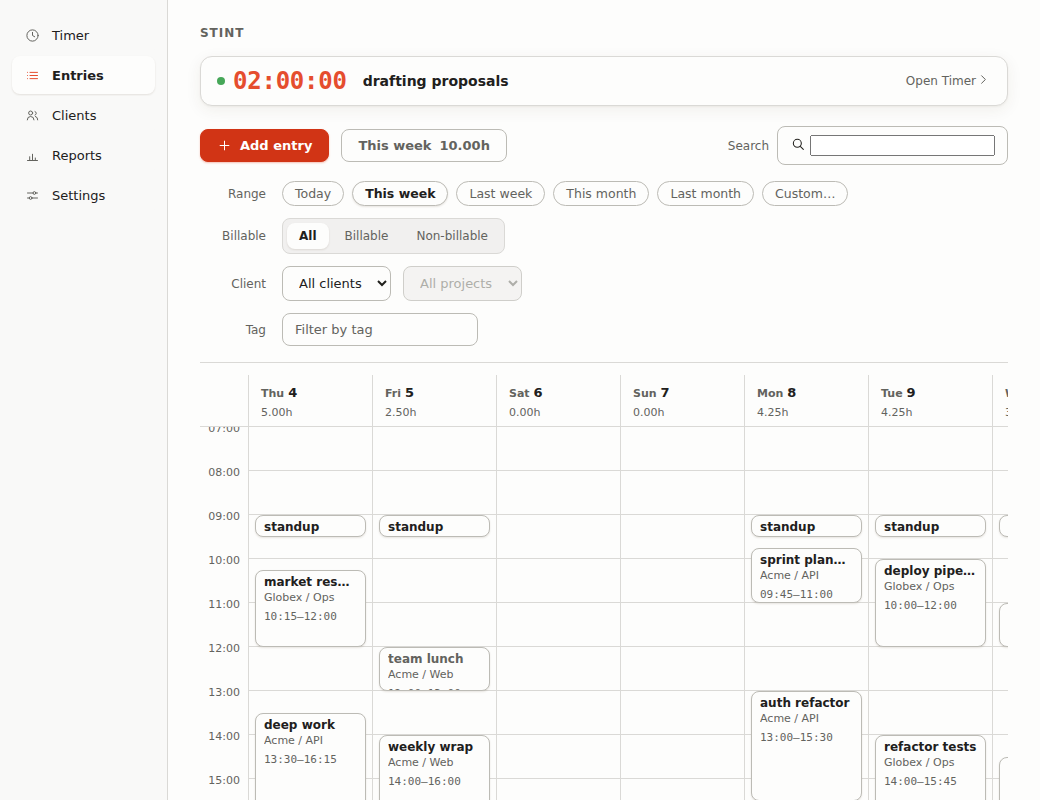
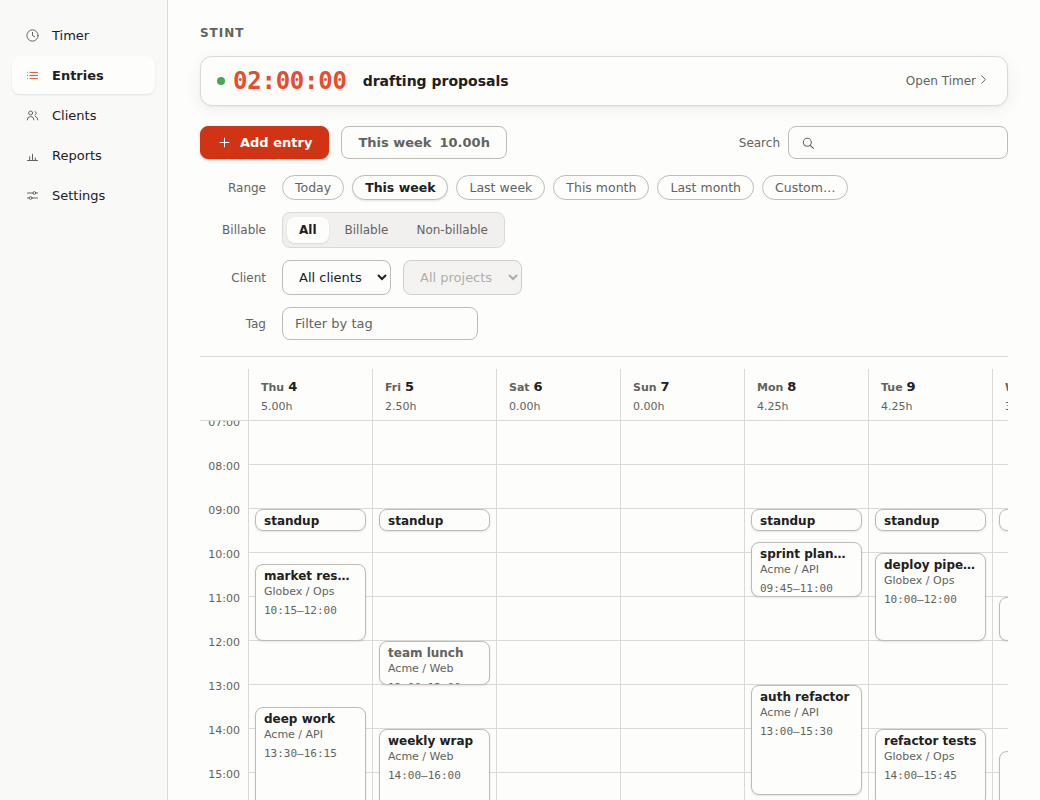
Put the search field's chrome on the input, not the span around it (#149)
The toolbar search box painted two nested fields. The border, radius and
padding sat on the `.search` <span> wrapping the input, and nothing reset the
input itself — so Chromium's UA chrome (a 2px inset border, square corners, an
off-grid `padding: 1px 2px`) rendered a second, smaller field inside the
designed one, and design.html D13's focus idiom landed on that inner box: a
square accent rectangle floating inside a rounded grey one.

The chrome moves onto the input, which is the element that actually takes
focus. The wrapper keeps only the magnifier, absolutely positioned and inert
to the pointer; the input reserves its lane with padding-left. `#search` now
resolves to one 1px solid --rule-strong border, an 8px radius, on-grid padding
and a 220x33 box — which also takes it off TARGET_SIZE's A03 spacing-exception
list, where its 185x21 box had been sitting.

The new JUDGE scene FIELD_CHROME carries D13's other half over the driven DOM:
every visible field in all five views resolves to one solid --rule-strong
border of one width (the same width every other field draws), an --r1 radius
and on-grid computed padding, and a real Tab onto #search lands the accent
border and 3px ring on the field with its wrapper painting nothing. The static
guard could not see this — it scores the 4px grid over the authored values in
styles.css, and every authored value was on-grid; these came from the UA
stylesheet.

context/mockups/main.html takes the same structure (PRD §18); it renders the
[…]

diff --git a/packages/gui/renderer/styles.css b/packages/gui/renderer/styles.css
@@ -487,8 +487,16 @@ s {
 
 /* The toolbar search box — a restrained warm field, pushed to the right. Never the accent.
    design.html D13 (issue 136): the label wrapper carries the visible name and the trailing
-   margin that pushes the pair right; the inner .search span stays the field chrome it always
-   was, so the box itself is unchanged. */
+   margin that pushes the pair right.
+
+   D13 again (issue 149): the FIELD CHROME lives on the input, not on a wrapper around it.
+   The .search span used to carry the border, radius and padding while nothing reset the
+   real <input>, so Chromium's UA chrome — a 2px inset border, square corners, an off-grid
+   1px 2px padding — painted a second field inside the designed one, and the D13 focus
+   idiom (accent border + 3px ring) landed on that inner 185x21 box rather than on the
+   rounded outline the user sees. Styling the element that actually takes focus overrides
+   the UA declarations in the one place they can be overridden, and gives the ring the box
+   it belongs to. The wrapper is now only a positioning host for the magnifier. */
 .search-field {
   display: inline-flex;
   align-items: center;
@@ -498,14 +506,31 @@ s {
   color: var(--muted);
 }
 .search {
+  position: relative;
+  display: inline-flex;
+  align-items: center;
+}
+/* The magnifier is a mark INSIDE the field, so it is taken out of flow (it must not push
+   the input's text box around) and made inert to the pointer — a click anywhere over the
+   box lands on the input, which is the whole affordance. The input reserves its lane with
+   padding-left instead. */
+.search .ic {
+  position: absolute;
+  left: 12px;
+  pointer-events: none;
+}
+/* Class-scoped, NOT `#search`: an id selector would outrank the one `input:focus-visible`
+   rule below and silently take D13's focus border back off the field (the cascade trap the
+   focus doctrine header records). At this weight the later focus rule wins, as it must. */
+.search input {
   font-family: var(--sans);
   font-size: 12.5px;
   color: var(--ink);
   background: var(--paper);
   border: 1px solid var(--rule-strong);
   border-radius: var(--r1);
-  padding: 8px 12px;
-  min-width: 200px;
+  padding: 8px 12px 8px 36px;
+  min-width: 220px;
 }
 
 /* §12 R9: the Entries-view control bar — a quiet labelled grid of the range presets, the

diff --git a/context/mockups/main.html b/context/mockups/main.html
@@ -105,11 +105,14 @@
   .toolbar{display:flex;align-items:center;gap:12px;flex-wrap:wrap;margin-bottom:4px}
   .toolbar select.field{min-width:0;padding:8px 12px;font-size:12px;color:var(--muted)}
   /* design.html D13: the search box carries a VISIBLE label — the wrapper holds the name
-     and the trailing margin, the .srch box stays the field chrome (issue 136). */
+     and the trailing margin (issue 136), and the FIELD CHROME — one border, one radius, the
+     padding — lives on the input itself, so the box the user sees is the box that takes focus
+     (issue 149). The .srch span is only the positioning host for the magnifier, which is taken
+     out of flow and made inert so a click anywhere over the box reaches the input. */
   .srchf{margin-left:auto;display:flex;align-items:center;gap:8px;font-size:12px;color:var(--muted)}
-  .srch{display:flex;align-items:center;gap:8px;border:1px solid var(--rule-strong);border-radius:var(--r1);padding:0 12px;height:32px;min-width:220px;color:var(--muted);background:var(--paper)}
-  .srch input{border:0;outline:0;font:inherit;font-size:12.5px;flex:1;color:var(--ink);background:none}
-  .srch .ic{width:15px;height:15px}
+  .srch{position:relative;display:flex;align-items:center}
+  .srch input{font:inherit;font-size:12.5px;line-height:normal;color:var(--ink);background:var(--paper);border:1px solid var(--rule-strong);border-radius:var(--r1);padding:8px 12px 8px 36px;min-width:220px}
+  .srch .ic{position:absolute;left:12px;width:15px;height:15px;pointer-events:none}
   /* selection bar */
   .selbar{display:flex;align-items:center;gap:12px;padding:12px 16px;margin-bottom:4px;border-radius:var(--r1);background:var(--wash);border:1px solid var(--rule)}
   .selbar .cap{flex:1}

diff --git a/acceptance/criteria/judge-rubric.md b/acceptance/criteria/judge-rubric.md
@@ -75,7 +75,8 @@ The harness writes `acceptance/evidence/judge-report.json` and the screenshots i
 | `RECOVERY_NOTICE` | The Settings → Backups **corruption-recovery banner** (§20 R05 / §17 R12). On a launch where the database was recovered from a backup (`state.recoveryNotice` non-null), routing to Settings renders a **one-shot banner** that names **both** the backup it recovered from (`recoveredFrom`) **and** the quarantined `.corrupted` file it set aside (`quarantinedTo`) — so the user sees exactly what happened, not a silent recovery. The Backups group + a reachable **Restore…** still render alongside it. The banner uses the monochrome warn `--flag` notice chrome (no accent). Machine-scored facts: the recovery banner renders naming both `recoveredFrom` and `quarantinedTo`, and a Restore… stays reachable on the same surface. | §20 R05, §17 R12, §15 | `main-recovery.png` |
 | `PARITY_REACH` | **The rendered window surfaces an affordance for every capability (§17 R8).** Nothing `tt` can do is unreachable from the GUI: the persistent left-nav **routes to each of the five views** (Timer / Entries / Clients / Reports / Settings) and **each view exposes its actions** (the timer's Start/Stop, the Entries control bar + per-row edit/split/merge/delete, the Clients create/rename/archive, the report builder + exports, the Settings controls). The static coverage claim is asserted in `gui/test/parity.test.ts` (every IPC channel maps to a real `tt` command, **and** — bidirectionally — every distinct `tt` capability is covered by a parity-matrix row, modulo an explicit GUI-absent allow-set) and `parity-matrix.json`; the behavioural claim is asserted by `features/parity.feature` running over **both** surfaces. Machine-scored sub-fact here: the injected `window.stint` (the same preload surface production exposes) provides a **callable method for every `CHANNELS` entry** (a channel with no method is a capability the renderer cannot invoke) and the nav routes to all five views. Subjective: each view's affordances read as discoverable, not buried. | §17 R8, §12 R3 | `parity-timer.png`, `parity-entries.png`, `parity-clients.png`, `parity-reports.png`, `parity-settings.png` |
 | `FIELD_LABELS` | **The D13 floor (every field carries a VISIBLE label), machine-scored — and with it the A01 field-border exemption design.html §07 CONDITIONS on that label.** The app labelled its fields with placeholder text, so the only name disappeared the moment the user typed; on the start form's four attribute fields (`#start-desc` / `#start-client` / `#start-project` / `#start-tags`) there was no accessible name at all, and `#add-desc` / `#search` / `#rep-name` carried a placeholder plus an INVISIBLE `aria-label` — which names the control for a screen reader and for nobody else (issue 136). `#add-desc` was the sharpest case: the one unlabelled field in a form whose Client / Project / Tags siblings all carried a visible one, an inconsistency inside a single form, and the mockups (`edit-entry.html`, `reports.html`, `timer.html`) had drawn the labels all along — the app drifted from its own illustration. Driving the real renderer through **all five views** at the 940×960 window, each routed into the states that actually hold fields — the Timer **start-details disclosure** (idle-only, §12 R05), the Entries **unified add form + Custom range**, the Reports **builder + Custom range**, and **Settings** (the Clients view carries no field at rest) — every VISIBLE form control (`input` / `select` / `textarea`) is swept for **two facts**: **(a) named** — **every** control has a programmatic accessible name from something other than its `placeholder`/`title` (an `aria-label`, a `<label>`, or `aria-labelledby`), the fact the four start-* fields failed outright; and **(b) visibly named** — every **field** has a **persistent visible element** supplying that name, through one of the three idioms the app uses: a wrapping or `for`-associated **`<label>`** with visible text (the D13 idiom), **`aria-labelledby`** resolving to a visible element, or the **row-heading** idiom the control bars and settings rows use (a visible `.report-lab` before a `.report-row`, a `.set-k` inside a `.set-row`, with `aria-label` carrying the programmatic half). A **placeholder is not an idiom** — vanishing on the first keystroke is the defect — and neither is a bare `aria-label`. Fact (b) governs the population D13's rule describes — the bordered-box controls ("one border, one radius, one focus idiom"). A **checkbox is not one**: it is named by the word beside it, and the calendar's corner select box is an **icon-only affordance**, which design.html **D16/A02** govern instead — those owe an accessible name, not a visible label, so fact (a) covers them and fact (b) does not. Every row-heading-idiom control is **named in the justification** so that population stays reviewable, exactly as `TARGET_SIZE` names its spacing exceptions. Guard-the-guard: the sweep must find **≥20** visible fields, so a scene that has gone blind fails instead of passing on an empty set. Fails the moment a field is added with only a placeholder, an `aria-label` is swapped in for a visible label, or a label is deleted from a field that had one. The Settings **global-hotkey capture control** is a `[tabindex]` span rather than a form control and is covered by `HOTKEY_NO_TRAP`. | §12 R14, §12 R05, §12 R07, §12 R08 · design.html D13/A01 | `field-labels-timer.png`, `field-labels-entries.png`, `field-labels-reports.png` |
-| `TARGET_SIZE` | **The A03 floor (target size, WCAG 2.2 SC 2.5.8), machine-scored.** Sweeping every **visible interactive control** (buttons, links, form fields, tabbable elements, `[data-act]` affordances; a control nested inside another target measures with its parent) across **all five views of the running main window and the tray popover**, every target's bounding box is **≥24×24 CSS px**, or it is covered by a WCAG-sanctioned exception: the **spacing exception**, tested as SC 2.5.8 defines it — a **24px-diameter circle centred on the undersized target** intersects **no other target's bounding box and no other undersized target's circle** (the known, deliberate cases: the live-edit billable checkbox, the toolbar search field, and the settings toggle, each with a clear circle) — or the **inline exception** for links inside a line of text. Zero unsanctioned undersized targets gates the pass, and every spacing-sanctioned control is named in the report so the exception list stays reviewable. A sub-24px control landing against a neighbour (a 22px ops button beside an overlapping event's ops, say) flips the pass to false. | design.html A03 | `main-target-size.png` |
+| `FIELD_CHROME` | **The D13 field grammar ("**One** border (`rule-strong`), **one** radius (8px), **one** focus idiom: accent border + the 3px ring") and the D07 grid under its padding, machine-scored over the DRIVEN DOM.** The toolbar search box painted **two nested fields** (issue 149): the border, radius and padding sat on the `.search` `<span>` **wrapping** the input, and nothing reset the input itself — so Chromium's UA chrome (a `2px inset` border, square corners, an off-grid `padding: 1px 2px`) rendered a **second, smaller field inside the designed one**, and D13's focus idiom landed on **that inner box**: a square accent rectangle floating inside a rounded grey one. `#search`'s 1px paddings were the **only off-grid padding values in the running app**. Nothing could catch it — GOLD `design-guard.test.ts` scores the 4px grid over the **authored** values in `styles.css`, and every authored value was on-grid; these came from the **UA stylesheet**, which a static scan of the source cannot see. That is the limit of the static half rather than a bug in it, and this row is where the case belongs: the **driven-DOM** half of design.html §08's split. `FIELD_LABELS` drives the same five views over the same field population and asks how each is **named**; this row asks what each **looks like**. Two facts. **(a) The sweep** — every **visible field** (the bordered-box controls D13 describes: text inputs, selects, textareas — never the checkboxes) across **all five views**, each routed into the state that holds its fields (the Timer **start-details disclosure**, the Entries **add form + Custom range**, the Reports **builder + Custom range**, **Settings**; the Clients view carries no field at rest and is swept anyway so one added there cannot slip in unswept), resolves to **one solid `--rule-strong` border of one width on all four sides** — and the **same width as every other field in the window**, so "one border" is scored as **agreement** rather than pinned to a px literal (a restyle that thickens every field's hairline stays legal; one field that disagrees, which is what a leaked UA border is, does not) — an **`--r1` radius on all four corners**, and **computed padding on the 4px grid**. Every value compared is resolved from the **token layer at probe time**, so this is a computed check of design.html's own rule and not the CSS pin process.html §02 forbids; the one literal is D07's grid itself. **No exemptions**: the app really does paint every one of its fields the same, so a field that differs is news. **(b) The focus idiom lands on the field** — a real **Tab** onto `#search` (never `.focus()`, so the `:focus-visible` is the one a keyboard user gets) resolves the **accent border on all four sides** and the **3px ring** on the element that **holds focus**, still carrying D13's 8px radius, with its wrapper painting **nothing**. Fact (b) is what a wrapper-styled field can never satisfy, and is why the fix moves the chrome onto the input rather than resetting the input and leaving the wrapper as the box. Guard-the-guard: the sweep must find **≥20** visible fields, so a scene that has gone blind fails instead of passing on an empty set. Paint transitions are switched off for the probe (D10 fades border-colour over 120ms, and a pinned clock freezes a fade wherever it started). | design.html D13/D07 · §12 R09 | `field-chrome-search-focus.png` |
+| `TARGET_SIZE` | **The A03 floor (target size, WCAG 2.2 SC 2.5.8), machine-scored.** Sweeping every **visible interactive control** (buttons, links, form fields, tabbable elements, `[data-act]` affordances; a control nested inside another target measures with its parent) across **all five views of the running main window and the tray popover**, every target's bounding box is **≥24×24 CSS px**, or it is covered by a WCAG-sanctioned exception: the **spacing exception**, tested as SC 2.5.8 defines it — a **24px-diameter circle centred on the undersized target** intersects **no other target's bounding box and no other undersized target's circle** (the known, deliberate cases: the live-edit billable checkbox and the settings toggle, each with a clear circle — the **toolbar search field** left this list when issue 149 moved its chrome onto the input, which restored the field's real 33px height) — or the **inline exception** for links inside a line of text. Zero unsanctioned undersized targets gates the pass, and every spacing-sanctioned control is named in the report so the exception list stays reviewable. A sub-24px control landing against a neighbour (a 22px ops button beside an overlapping event's ops, say) flips the pass to false. | design.html A03 | `main-target-size.png` |
 | `COLOUR_PAIRING` | **The A05 floor (colour never the sole signal, WCAG 1.4.1) via the D05 pairing rule, machine-scored.** Every semantic colour in the window carries a **word or icon beside it**: the **run-dot** renders beside the literal word **"running"**, and every marker is scored **as rendered, not merely present** — the Entries strip pairs by its **visible dot** (D05 takes a word *or* an icon, and the strip's word is the deliberately hidden one — one indicator per surface, not two), while the **Timer card carries both a visible word and a visible dot**, the run-dot's contrast exemption in design.html §07 being *conditional on that pairing*. Presence alone is what this scene used to score, and it passed a Timer card whose word and dot were both `display: none` for as long as issue #142 shipped — a card signalling running by a recoloured clock and nothing else, the one thing D05 forbids. **billable-ness is worded**, not colour-only (the running card's `billable` / `non-billable` badge); the calendar's **overlap band carries its worded `.otag`** ("overlap Nm") and the **slept hatch carries the `#i-moon` icon marker**; and the two message palettes both carry **sentences**, not bare colour — the **warn advisory** (overlap banner) is worded on the `--flag`/`--flag-bg` palette while the **err block** (a refused Stop's `#timer-warning`) is worded on the `--danger`/`--danger-weak` palette with the Entries mirror carrying `.error` (D15 — an advisory never reads as a block, and neither state rides on hue alone). Fails if any of these markers loses its word/icon while keeping its colour — including by hiding it rather than deleting it. | design.html D05/D15/A05 | `main-colour-pairing.png` |
 | `DESKTOP_FEEL` | The window reads as a quiet, minimal desktop app that respects the system (system typography, light-mode Warm Paper surfaces, monochrome with one rationed accent) — not a busy or branded web page. | §15 · design.html | all screenshots |
 

diff --git a/acceptance/criteria/COVERAGE.md b/acceptance/criteria/COVERAGE.md
@@ -1702,7 +1702,8 @@ browser's natural end-of-cycle wrap, a trap is two body hits with no control
 between — and each control, including the `input` /`select` filters, showing a
 non-default focus ring); design.html's A-floors carry no MANUAL secondary — no design floor is physical
 (acceptance.html §07) — so `KEYBOARD_FOCUS` + `HOTKEY_NO_TRAP` + `TARGET_SIZE` +
-`FIELD_LABELS` + GOLD `gui/test/design-guard.test.ts` are the whole net. `KEYBOARD_FOCUS` walks
+`FIELD_LABELS` + `FIELD_CHROME` + GOLD `gui/test/design-guard.test.ts` are the
+whole net. `KEYBOARD_FOCUS` walks
 only the DEFAULT view, so a routed-away view's controls sit behind `[hidden]`,
 out of the tab order and unwalked — the blind spot issue 135 fell through, where
 the Settings global-hotkey field swallowed Tab as a chord and stranded the four
@@ -1764,7 +1765,34 @@ placeholder, and a persistent VISIBLE element supplying it — through a
 settings rows use (`.report-lab` / `.set-k`), whose members are named in the
 justification so the population stays reviewable. Nothing caught this before
 because `design-guard.test.ts` scores tokens, contrast and spacing; label
-presence is a structural fact about the DRIVEN DOM. No new IPC channel (pure renderer), so
+presence is a structural fact about the DRIVEN DOM. JUDGE `FIELD_CHROME`
+(`field-chrome-search-focus.png`, issue 149) carries the
+REST of **D13** — one border (`rule-strong`), one radius (8px), one focus idiom
+— with the **D07** grid under a field's padding, read off the DRIVEN DOM. The
+toolbar search box painted TWO nested fields: the chrome sat on the `.search`
+`<span>` WRAPPING the input and nothing reset the input, so Chromium's UA
+border, square corners and off-grid `padding: 1px 2px` rendered a second field
+inside the designed one — and D13's focus idiom landed on that inner box, a
+square accent rectangle floating inside a rounded grey one. `#search`'s 1px
+paddings were the only off-grid padding values in the running app. The static
+half could not see it: `design-guard.test.ts` scores the 4px grid over the
+AUTHORED values in `styles.css`, and every authored value was on-grid; these
+came from the UA stylesheet. That is the limit of a source scan rather than a
+bug in it, and the case belongs to the driven-DOM half of design.html §08's
+split. The scene drives the same five views `FIELD_LABELS` does, over the same
+field population, and asks what each field LOOKS LIKE: one solid
+`--rule-strong` border of one width on all four sides, the same width every
+other field draws (agreement, not a pinned px literal — every compared value is
+resolved from the token layer at probe time, so this is a computed check of the
+rule rather than the CSS pin process.html §02 forbids), an `--r1` radius on all
+four corners,
+computed padding on the 4px grid — no exemptions, because the app really does
+paint every field the same — and then Tabs onto `#search` to prove the accent
+border and the 3px ring resolve on the element that HOLDS focus, its wrapper
+painting nothing. That second fact is what a wrapper-styled field can never
+satisfy, and is why the fix moved the chrome onto the input rather than
+resetting the input and leaving the wrapper as the box.
+No new IPC channel (pure renderer), so
 `parity-matrix.json` / `gui/test/parity.test.ts` are unchanged. The §12 R14
 keyboard/focus pass is thus covered (no longer partial). **§17 R11 — destructive
 actions confirm, and search/filter/group reflect live in the list AND the
